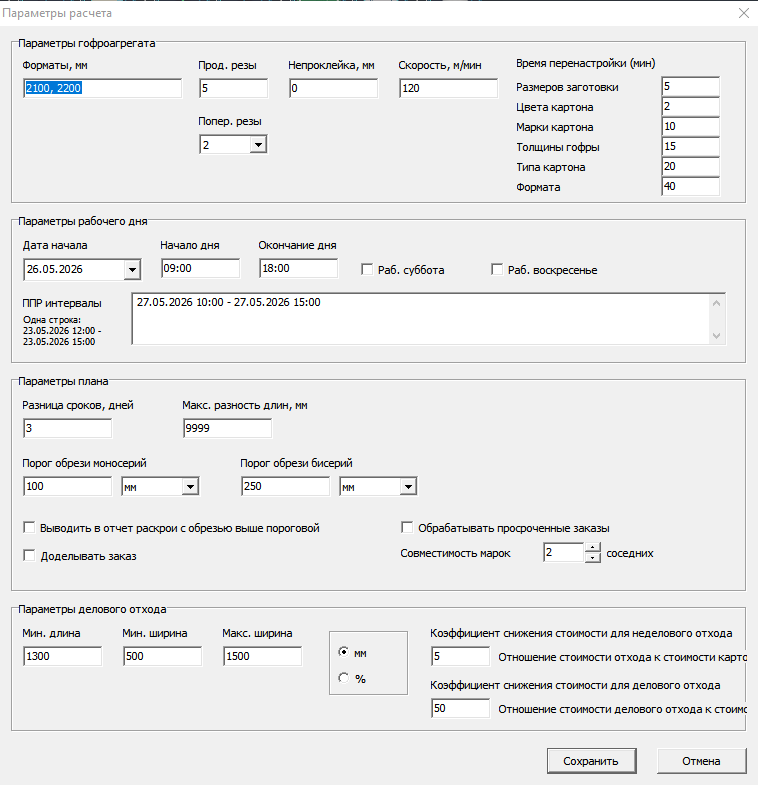
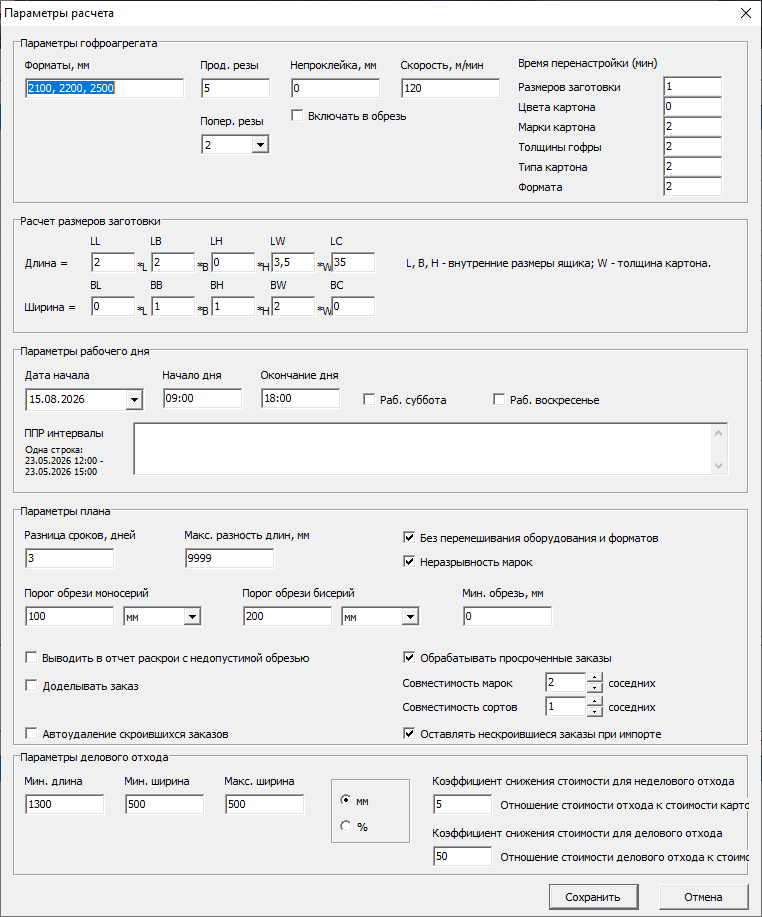
Update OptCutting site for 1.39

Changed region(s): [[0.0, 0.0, 1.0, 1.0], [0.2427, 0.0611, 0.6372, 0.1834], [0.5158, 0.2752, 0.9406, 0.3057]]

diff --git a/index.html b/index.html
@@ -4,8 +4,8 @@
   <meta charset="utf-8">
   <meta name="viewport" content="width=device-width, initial-scale=1">
   <title>Раскройщик OptCutting — программа оптимизации раскроя гофрокартона</title>
-  <meta name="description" content="Раскройщик OptCutting: Windows-программа для оптимизации раскроя полотна гофрокартона, расчета карт раскроя, снижения отходов, учета сроков, ППР, совместимости марок и формирования Excel/Word-отчетов.">
-  <meta name="keywords" content="раскройщик, OptCutting, программа раскроя гофрокартона, раскрой гофрокартона, оптимизация раскроя, раскрой полотна, карты раскроя, сетевой график, гофроагрегат, фактический план, сравнение планов, деловой отход, MS SQL Server, Excel отчеты, Word отчет">
+  <meta name="description" content="Раскройщик OptCutting: Windows-программа для оптимизации раскроя полотна гофрокартона, расчета карт раскроя, контроля сырья и сортов, снижения отходов, учета сроков, ППР, совместимости марок и формирования Excel/Word-отчетов.">
+  <meta name="keywords" content="раскройщик, OptCutting, программа раскроя гофрокартона, раскрой гофрокартона, оптимизация раскроя, раскрой полотна, карты раскроя, сетевой график, гофроагрегат, фактический план, сравнение планов, деловой отход, сырье, сорта картона, склад сырья, MS SQL Server, Excel отчеты, Word отчет">
   <meta name="author" content="Viktor Guberniev">
   <meta name="robots" content="index, follow, max-image-preview:large, max-snippet:-1, max-video-preview:-1">
   <meta name="application-name" content="OptCutting">
@@ -765,7 +765,7 @@ html[data-theme="day"] .smart-related-card,html.day-theme .smart-related-card{ba
           </div>
           <div class="card">
             <h3 data-i18n="feature3Title">Совместимость марок</h3>
-            <p data-i18n="feature3Text">Повышение марки оценивается через метод эквивалентной обрези.</p>
+            <p data-i18n="feature3Text">Повышение марки оценивается через метод эквивалентной обрези; совместимость сортов задается отдельно по соседним сортам.</p>
           </div>
           <div class="card">
             <h3 data-i18n="feature4Title">SQL и Excel</h3>
@@ -779,6 +779,18 @@ html[data-theme="day"] .smart-related-card,html.day-theme .smart-related-card{ba
             <h3 data-i18n="feature6Title">Без перемешивания форматов</h3>
             <p data-i18n="feature6Text">Специальный режим сначала планирует все раскрои на одном оборудовании и одном формате, затем переходит к следующему оборудованию и формату.</p>
           </div>
+          <div class="card">
+            <h3 data-i18n="feature7Title">Сырье и сорта</h3>
+            <p data-i18n="feature7Text">Справочники сырья и сортов позволяют привязать к сорту состав картона, расход компонентов на 1 м2 и складские остатки.</p>
+          </div>
+          <div class="card">
+            <h3 data-i18n="feature8Title">Контроль заказов</h3>
+            <p data-i18n="feature8Text">Программа предупреждает о нехватке сырья, отсутствии сорта и несоответствии цветов заказа внешним слоям сырья.</p>
+          </div>
+          <div class="card">
+            <h3 data-i18n="feature9Title">Гибкий импорт</h3>
+            <p data-i18n="feature9Text">Импорт понимает сорта вместо марок, необязательные поля, цвета обеих сторон, оборудование, биговки и может сохранять нескроившиеся остатки.</p>
+          </div>
         </div>
         <div class="screen feature-screen">
           <img src="assets/screen-main.png" alt="Главное окно программы OptCutting для раскроя полотна гофрокартона" loading="lazy">
@@ -790,15 +802,15 @@ html[data-theme="day"] .smart-related-card,html.day-theme .smart-related-card{ba
     <section id="planning-params">
       <div class="wrap section-head">
         <h2 data-i18n="paramsTitle">Параметры, которые влияют на план</h2>
-        <p data-i18n="paramsText">Оборудование и доступные для него форматы, продольные и поперечные резы, скорость, перенастройки, рабочий день, интервалы ППР, пороги обрези и правила обработки просроченных заказов.</p>
+        <p data-i18n="paramsText">Оборудование и доступные для него форматы, продольные и поперечные резы, скорость, перенастройки, рабочий день, интервалы ППР, пороги обрези, неразрывность марок, совместимость марок и сортов, а также правила обработки просроченных и нескроившихся заказов.</p>
       </div>
       <div class="wrap showcase">
         <div>
           <div class="steps">
-            <div class="card step"><h3 data-i18n="step1Title">Заказы</h3><p data-i18n="step1Text">Импортируйте или создайте заказы; при необходимости укажите рилевки и перерабатывающее оборудование.</p></div>
+            <div class="card step"><h3 data-i18n="step1Title">Заказы</h3><p data-i18n="step1Text">Импортируйте или создайте заказы; при необходимости укажите сорт, цвета обеих сторон, рилевки и перерабатывающее оборудование.</p></div>
             <div class="card step"><h3 data-i18n="step2Title">Оборудование</h3><p data-i18n="step2Text">Ведите общий справочник оборудования и его форматов, выбирайте машины для расчета. Режим без перемешивания форматов сначала выполняет все раскрои на одной машине и одном формате, затем переходит к следующим.</p></div>
             <div class="card step"><h3 data-i18n="step3Title">Календарь</h3><p data-i18n="step3Text">Укажите дату старта, рабочее время, выходные и интервалы ППР.</p></div>
-            <div class="card step"><h3 data-i18n="step4Title">Расчет</h3><p data-i18n="step4Text">Получите план раскроя, карту, сводку, Excel-отчеты и сравнение с фактом.</p></div>
+            <div class="card step"><h3 data-i18n="step4Title">Расчет</h3><p data-i18n="step4Text">Получите план раскроя, карту, сводку, примечания по заказам, Excel-отчеты, отчет по сырью и сравнение с фактом.</p></div>
           </div>
         </div>
         <div class="screen">
@@ -835,7 +847,7 @@ html[data-theme="day"] .smart-related-card,html.day-theme .smart-related-card{ba
     <section id="reports">
       <div class="wrap section-head">
         <h2 data-i18n="reportsTitle">Отчеты для производства и руководителя</h2>
-        <p data-i18n="reportsText">Файлы Excel открываются автоматически и сохраняют цветовую подсветку: опоздания, повышение марки, частично скроенные и нескроенные заказы. Для фактического плана доступен отдельный Word-отчет сравнения.</p>
+        <p data-i18n="reportsText">Файлы Excel открываются через программу, ассоциированную с Excel-форматом, и сохраняют цветовую подсветку: опоздания, повышение марки, частично скроенные и нескроенные заказы. Для фактического плана доступен отдельный Word-отчет сравнения.</p>
       </div>
       <div class="wrap report-grid">
         <div class="screen">
@@ -848,7 +860,7 @@ html[data-theme="day"] .smart-related-card,html.day-theme .smart-related-card{ba
         </div>
         <div class="screen">
           <img src="assets/report-materials.png" alt="Ведомость потребности в картоне из программы OptCutting" loading="lazy">
-          <div class="caption" data-i18n="report3">Потребность: марки картона, отход, деловой отход, стоимость.</div>
+          <div class="caption" data-i18n="report3">Потребность: марки картона, отход, деловой отход, стоимость, а также отдельный лист по сырью с потребностью в м2 и тоннах, запасом и остатком.</div>
         </div>
       </div>
     </section>
@@ -882,10 +894,23 @@ html[data-theme="day"] .smart-related-card,html.day-theme .smart-related-card{ba
     <section id="news">
       <div class="wrap section-head">
         <h2 data-i18n="newsTitle">Новости OptCutting</h2>
-        <p data-i18n="newsIntro">Последние изменения делают планирование на нескольких машинах точнее, а производственные отчеты — информативнее.</p>
+        <p data-i18n="newsIntro">Последние изменения добавляют учет сырья и сортов, более точную диагностику заказов и информативные производственные отчеты.</p>
       </div>
       <div class="wrap news-grid">
         <article class="card release latest">
+          <div class="release-kicker" data-i18n="news139Kicker">Обновление 1.39 готово</div>
+          <h3 data-i18n="news139Title">Новое в версии 1.39</h3>
+          <p data-i18n="news139Text">Обновление добавляет учет сырья и сортов картона, расширенный импорт и новую диагностику заказов.</p>
+          <ul class="release-list">
+            <li class="priority" data-i18n="news139Item1">Добавлены справочники сырья и сортов: состав сорта, расход сырья на 1 м2, остатки на складе и контроль достаточности запасов.</li>
+            <li data-i18n="news139Item2">В заказах можно выбирать сорт; при импорте сорт может быть указан вместо марки, а программа выделяет марку автоматически.</li>
+            <li data-i18n="news139Item3">Добавлены предупреждения и цветовая разметка: не хватает сырья, сорт не найден, цвет заказа не соответствует внешним слоям сырья.</li>
+            <li data-i18n="news139Item4">Список заказов получил колонку «Примечания» и отдельную легенду статусов, включая нескроившиеся и частично скроившиеся заказы.</li>
+            <li data-i18n="news139Item5">Добавлены неразрывность марок, совместимость сортов, запоминание папки импорта и режим сохранения нескроившихся заказов при импорте.</li>
+            <li data-i18n="news139Item6">Отчет по сырью показывает потребность в м2 и тоннах, текущий запас и остаток после изготовления заказов.</li>
+          </ul>
+        </article>
+        <article class="card release">
           <div class="release-kicker" data-i18n="news132Kicker">Обновление 1.32 готово</div>
           <h3 data-i18n="news132Title">Новое в версии 1.32</h3>
           <p data-i18n="news132Text">Обновление расширяет работу с оборудованием, заказами и совместными раскроями.</p>
@@ -961,7 +986,7 @@ html[data-theme="day"] .smart-related-card,html.day-theme .smart-related-card{ba
     <section id="pricing">
       <div class="wrap section-head">
         <h2 data-i18n="pricingTitle">Стартовые цены</h2>
-        <p data-i18n="pricingText">Цена снижена для первых внедрений. Версия 1.32 уже включает справочник оборудования, последовательное планирование по машинам и форматам и расширенные данные заказов.</p>
+        <p data-i18n="pricingText">Цена снижена для первых внедрений. Версия 1.39 уже включает справочник оборудования, последовательное планирование по машинам и форматам, сырье, сорта картона и расширенную диагностику заказов.</p>
       </div>
       <div class="wrap pricing">
         <div class="card price">
@@ -1021,7 +1046,7 @@ html[data-theme="day"] .smart-related-card,html.day-theme .smart-related-card{ba
         </div>
         <div class="card">
           <h3 data-i18n="faq3Title">Какие отчеты формируются?</h3>
-          <p data-i18n="faq3Text">Excel-отчет по раскроям, сетевой график в виде диаграммы Ганта, ведомость потребности в картоне и Word-отчет сравнения фактического и оптимизированного плана.</p>
+          <p data-i18n="faq3Text">Excel-отчет по раскроям, сетевой график в виде диаграммы Ганта, ведомость потребности в картоне, отчет по потребному сырью и Word-отчет сравнения фактического и оптимизированного плана.</p>
         </div>
         <div class="card">
           <h3 data-i18n="faq4Title">Можно сравнить с текущим планом?</h3>
@@ -1152,7 +1177,7 @@ html[data-theme="day"] .smart-related-card,html.day-theme .smart-related-card{ba
           navPricing: "Цены",
           eyebrow: "Windows-программа для гофропроизводства",
           heroTitle: "Раскройщик OptCutting",
-          heroText: "Оптимизация раскроя полотна гофрокартона: заказы, сроки, ППР, подкрой, совместимость марок, карты раскроя, сравнение фактического плана и Excel/Word-отчеты в одном рабочем инструменте.",
+          heroText: "Оптимизация раскроя полотна гофрокартона: заказы, сроки, ППР, подкрой, совместимость марок и сортов, контроль сырья, карты раскроя, сравнение фактического плана и Excel/Word-отчеты в одном рабочем инструменте.",
           downloadDemo: "Скачать демоверсию",
           openPresentation: "Смотреть презентацию",
           chipPrice: "Бессрочно: 99 000 ₽",
@@ -1165,13 +1190,22 @@ html[data-theme="day"] .smart-related-card,html.day-theme .smart-related-card{ba
           value2Title: "Контроль сроков",
           value2Text: "Расчет от даты начала, рабочий календарь, выходные, ППР и опоздания в примечаниях.",
           value3Title: "Экономика картона",
-          value3Text: "Цены по маркам, повышение марки, деловой отход и ведомость потребности.",
+          value3Text: "Цены по маркам, повышение марки, деловой отход, ведомость потребности и контроль сырья.",
           multiTitle: "Мультиязычный интерфейс",
           multiText: "Раскройщик уже поставляется со словарями интерфейса для десяти языков. Переключение языка помогает внедрять программу в смешанных командах и на площадках с разными рабочими языками.",
           multiNote: "Если нужен другой язык, можно самостоятельно создать словарь перевода для любого языка и подключить его к программе.",
           mainCaption: "Главное окно: заказы, карта раскроя, сводка и серии.",
           newsTitle: "Новости OptCutting",
-          newsIntro: "Последние изменения делают планирование на нескольких машинах точнее, а производственные отчеты — информативнее.",
+          newsIntro: "Последние изменения добавляют учет сырья и сортов, более точную диагностику заказов и информативные производственные отчеты.",
+          news139Kicker: "Обновление 1.39 готово",
+          news139Title: "Новое в версии 1.39",
+          news139Text: "Обновление добавляет учет сырья и сортов картона, расширенный импорт и новую диагностику заказов.",
+          news139Item1: "Добавлены справочники сырья и сортов: состав сорта, расход сырья на 1 м2, остатки на складе и контроль достаточности запасов.",
+          news139Item2: "В заказах можно выбирать сорт; при импорте сорт может быть указан вместо марки, а программа выделяет марку автоматически.",
+          news139Item3: "Добавлены предупреждения и цветовая разметка: не хватает сырья, сорт не найден, цвет заказа не соответствует внешним слоям сырья.",
+          news139Item4: "Список заказов получил колонку «Примечания» и отдельную легенду статусов, включая нескроившиеся и частично скроившиеся заказы.",
+          news139Item5: "Добавлены неразрывность марок, совместимость сортов, запоминание папки импорта и режим сохранения нескроившихся заказов при импорте.",
+          news139Item6: "Отчет по сырью показывает потребность в м2 и тоннах, текущий запас и остаток после изготовления заказов.",
           news132Kicker: "Обновление 1.32 готово",
           news132Title: "Новое в версии 1.32",
           news132Text: "Обновление расширяет работу с оборудованием, заказами и совместными раскроями.",
@@ -1205,23 +1239,29 @@ html[data-theme="day"] .smart-related-card,html.day-theme .smart-related-card{ba
           feature2Title: "Гофроящики",
           feature2Text: "Расчет заготовки по внутренним размерам ящика, настраиваемым коэффициентам и биговочные линии на карте.",
           feature3Title: "Совместимость марок",
-          feature3Text: "Повышение марки оценивается через метод эквивалентной обрези.",
+          feature3Text: "Повышение марки оценивается через метод эквивалентной обрези; совместимость сортов задается отдельно по соседним сортам.",
           feature4Title: "SQL, Lite и Excel",
           feature4Text: "Рабочая версия хранит данные в SQL Server; Lite-версия работает без него. При импорте из Excel или SQL загружаются также рилевки и перерабатывающее оборудование.",
           feature5Title: "Список оборудования",
           feature5Text: "Для каждой машины сохраняются наименование и несколько доступных форматов; в расчет включается нужное оборудование.",
           feature6Title: "Без перемешивания форматов",
           feature6Text: "Специальный режим сначала планирует все раскрои на одном оборудовании и одном формате, затем переходит к следующему оборудованию и формату.",
+          feature7Title: "Сырье и сорта",
+          feature7Text: "Справочники сырья и сортов позволяют привязать к сорту состав картона, расход компонентов на 1 м2 и складские остатки.",
+          feature8Title: "Контроль заказов",
+          feature8Text: "Программа предупреждает о нехватке сырья, отсутствии сорта и несоответствии цветов заказа внешним слоям сырья.",
+          feature9Title: "Гибкий импорт",
+          feature9Text: "Импорт понимает сорта вместо марок, необязательные поля, цвета обеих сторон, оборудование, биговки и может сохранять нескроившиеся остатки.",
           paramsTitle: "Параметры, которые влияют на план",
-          paramsText: "Оборудование и доступные для него форматы, продольные и поперечные резы, скорость, перенастройки, рабочий день, интервалы ППР, минимальная и максимальная обрезь, учет непроклейки и правила обработки просроченных заказов.",
+          paramsText: "Оборудование и доступные для него форматы, продольные и поперечные резы, скорость, перенастройки, рабочий день, интервалы ППР, пороги обрези, неразрывность марок, совместимость марок и сортов, а также правила обработки просроченных и нескроившихся заказов.",
           step1Title: "Заказы",
-          step1Text: "Импортируйте или создайте заказы; при необходимости укажите рилевки и перерабатывающее оборудование.",
+          step1Text: "Импортируйте или создайте заказы; при необходимости укажите сорт, цвета обеих сторон, рилевки и перерабатывающее оборудование.",
           step2Title: "Оборудование",
           step2Text: "Ведите общий справочник оборудования и его форматов, выбирайте машины для расчета. Режим без перемешивания форматов сначала выполняет все раскрои на одной машине и одном формате, затем переходит к следующим.",
           step3Title: "Календарь",
           step3Text: "Укажите дату старта, рабочее время, выходные и интервалы ППР.",
           step4Title: "Расчет",
-          step4Text: "Получите план раскроя, карту, сводку, Excel-отчеты и сравнение с фактом.",
+          step4Text: "Получите план раскроя, карту, сводку, примечания по заказам, Excel-отчеты, отчет по сырью и сравнение с фактом.",
           paramsCaption: "Окно параметров расчета.",
           actualTitle: "Проверка на фактическом плане",
           actualText: "Рабочая версия может загрузить реальный план производства из Excel, посчитать его показатели и сразу сравнить с оптимизированным вариантом OptCutting.",
@@ -1232,10 +1272,10 @@ html[data-theme="day"] .smart-related-card,html.day-theme .smart-related-card{ba
           actual3Title: "Сравнение в отчетах",
           actual3Text: "После оптимизации программа добавляет сравнение фактического и расчетного плана в Excel и формирует отдельный Word-отчет.",
           reportsTitle: "Отчеты для производства и руководителя",
-          reportsText: "Файлы Excel открываются автоматически и сохраняют цветовую подсветку: опоздания, повышение марки, частично скроенные и нескроенные заказы. Для фактического плана доступен отдельный Word-отчет сравнения.",
+          reportsText: "Файлы Excel открываются через программу, ассоциированную с Excel-форматом, и сохраняют цветовую подсветку: опоздания, повышение марки, частично скроенные и нескроенные заказы. Для фактического плана доступен отдельный Word-отчет сравнения.",
           report1: "Раскрои: оборудование, серии, заказы, размеры, полотна, рилевки и перерабатывающее оборудование; примечание выводится последним.",
           report2: "Сетевой график: диаграмма Ганта работы гофроагрегата.",
-          report3: "Потребность: марки картона, отход, деловой отход, стоимость.",
+          report3: "Потребность: марки картона, отход, деловой отход, стоимость, а также отдельный лист по сырью с потребностью в м2 и тоннах, запасом и остатком.",
           integrationsTitle: "Интеграции с PRO-программами",
           integrationsText: "Раскройщик сам не запускается с JSON и не имеет PRO-редакции. При этом из свойств выбранного заказа он может передать данные в установленные PRO-программы PackTuning; соответствующая кнопка появляется, когда программа-получатель установлена.",
           integrationTransportTitle: "Транспортировка",
@@ -1245,7 +1285,7 @@ html[data-theme="day"] .smart-related-card,html.day-theme .smart-related-card{ba
           integrationTechCardTitle: "Техкарта",
           integrationTechCardText: "Передаёт данные заказа в ГофроТехкарту PRO для подготовки технологической карты.",
           pricingTitle: "Стартовые цены",
-          pricingText: "Цена снижена для первых внедрений. Версия 1.32 уже включает справочник оборудования, последовательное планирование по машинам и форматам и расширенные данные заказов.",
+          pricingText: "Цена снижена для первых внедрений. Версия 1.39 уже включает справочник оборудования, последовательное планирование по машинам и форматам, сырье, сорта картона и расширенную диагностику заказов.",
           priceBuyTitle: "Бессрочная лицензия",
           priceBuy: "99 000 ₽",
           priceBuyText: "Для предприятия, которое хочет сразу закрепить право использования.",
@@ -1263,7 +1303,7 @@ html[data-theme="day"] .smart-related-card,html.day-theme .smart-related-card{ba
           faq2Title: "Нужен ли SQL Server для демо?",
           faq2Text: "Демоверсия не требует SQL Server: она автоматически создает пример заказов. Рабочая версия подключается к базе и реальным данным предприятия.",
           faq3Title: "Какие отчеты формируются?",
-          faq3Text: "Excel-отчет по раскроям, сетевой график в виде диаграммы Ганта, ведомость потребности в картоне и Word-отчет сравнения фактического и оптимизированного плана.",
+          faq3Text: "Excel-отчет по раскроям, сетевой график в виде диаграммы Ганта, ведомость потребности в картоне, отчет по потребному сырью и Word-отчет сравнения фактического и оптимизированного плана.",
           faq4Title: "Можно сравнить с текущим планом?",
           faq4Text: "Да. Рабочая версия загружает фактический план из Excel, оценивает его показатели и после расчета показывает, что изменилось в оптимизированном варианте.",
           otherTitle: "Посмотрите другие мои программы",
@@ -1303,7 +1343,7 @@ html[data-theme="day"] .smart-related-card,html.day-theme .smart-related-card{ba
           navPricing: "Pricing",
           eyebrow: "Windows software for corrugated production",
           heroTitle: "OptCutting",
-          heroText: "Corrugated web cutting optimization: orders, due dates, planned maintenance, nested cuts, compatible board grades, cutting maps, actual plan comparison and Excel/Word reports in one production tool.",
+          heroText: "Corrugated web cutting optimization: orders, due dates, planned maintenance, nested cuts, compatible board grades and sorts, raw-material control, cutting maps, actual plan comparison and Excel/Word reports in one production tool.",
           downloadDemo: "Download demo",
           openPresentation: "View presentation",
           chipPrice: "Perpetual: €990",
@@ -1316,13 +1356,22 @@ html[data-theme="day"] .smart-related-card,html.day-theme .smart-related-card{ba
           value2Title: "Due-date control",
           value2Text: "Start date, working calendar, weekends, maintenance intervals and lateness notes.",
           value3Title: "Board economics",
-          value3Text: "Board prices, grade upgrades, reusable waste and material requirement reports.",
+          value3Text: "Board prices, grade upgrades, reusable waste, material demand reports and raw-material control.",
           multiTitle: "Multilingual interface",
           multiText: "OptCutting already ships with interface dictionaries for ten languages. Language switching helps deploy the program in mixed teams and production sites with different working languages.",
           multiNote: "If another language is needed, you can create your own translation dictionary for any language and connect it to the program.",
           mainCaption: "Main window: orders, cutting map, summary and cutting series.",
           newsTitle: "OptCutting news",
-          newsIntro: "The latest changes make multi-machine planning more accurate and production reports more informative.",
+          newsIntro: "The latest changes add raw-material and board-sort control, more precise order diagnostics and more informative production reports.",
+          news139Kicker: "Update 1.39 is ready",
+          news139Title: "What is new in version 1.39",
+          news139Text: "This update adds raw-material and board-sort control, expanded import and new order diagnostics.",
+          news139Item1: "Raw Materials and Board Sorts catalogs now store sort composition, component consumption per 1 m2, stock balances and stock sufficiency checks.",
+          news139Item2: "Orders can use board sorts; imports may specify a sort instead of a grade, and the program extracts the grade automatically.",
+          news139Item3: "Warnings and color highlighting were added for raw-material shortages, missing sorts and order colors that do not match the outer material layers.",
+          news139Item4: "The order list now has a Notes column and a separate status legend, including uncut and partially cut orders.",
+          news139Item5: "Added grade continuity, sort compatibility, last import folder memory and a mode that keeps uncut order remainders during import.",
+          news139Item6: "The raw-material report shows demand in m2 and tons, current stock and the remaining stock after production.",
           news132Kicker: "Update 1.32 is ready",
           news132Title: "What is new in version 1.32",
           news132Text: "This update expands equipment, order and combined-cutting workflows.",
@@ -1356,23 +1405,29 @@ html[data-theme="day"] .smart-related-card,html.day-theme .smart-related-card{ba
           feature2Title: "Corrugated boxes",
           feature2Text: "Blank size calculation from inner box dimensions, adjustable coefficients and crease lines on the map.",
           feature3Title: "Grade compatibility",
-          feature3Text: "Grade upgrades are evaluated using equivalent trim waste.",
+          feature3Text: "Grade upgrades are evaluated using equivalent trim waste; sort compatibility is configured separately by neighboring sort numbers.",
           feature4Title: "SQL, Lite and Excel",
           feature4Text: "The full version stores data in SQL Server; the Lite edition works without it. Excel or SQL imports also read creases and processing equipment.",
           feature5Title: "Equipment list",
           feature5Text: "Store each machine name and several available web widths, then select the required equipment for calculation.",
           feature6Title: "No format intermixing",
           feature6Text: "A dedicated mode schedules every cutting plan for one machine and one format first, then moves to the next machine and format.",
+          feature7Title: "Raw materials and sorts",
+          feature7Text: "Raw-material and board-sort catalogs link each sort to its board composition, component consumption per 1 m2 and warehouse balances.",
+          feature8Title: "Order diagnostics",
+          feature8Text: "The program warns about raw-material shortages, missing sorts and order colors that do not match the outer raw-material layers.",
+          feature9Title: "Flexible import",
+          feature9Text: "Import supports sorts instead of grades, optional fields, two-sided colors, equipment, creases and keeping uncut remainders.",
           paramsTitle: "Planning parameters",
-          paramsText: "Equipment and its available web widths, longitudinal and cross cuts, speed, setup time, working day, maintenance intervals, minimum and maximum trim waste, unglued-area handling and overdue order rules.",
+          paramsText: "Equipment and its available web widths, longitudinal and cross cuts, speed, setup time, working day, maintenance intervals, trim-waste thresholds, grade continuity, grade and sort compatibility, and rules for overdue and uncut orders.",
           step1Title: "Orders",
-          step1Text: "Import or create orders and, when needed, enter creases and processing equipment.",
+          step1Text: "Import or create orders and, when needed, enter board sort, both-side colors, creases and processing equipment.",
           step2Title: "Equipment",
           step2Text: "Maintain a shared equipment-and-format catalog and select machines for calculation. No-format-intermixing mode completes all plans for one machine and format before moving to the next.",
           step3Title: "Calendar",
           step3Text: "Set start date, working hours, weekends and maintenance windows.",
           step4Title: "Calculate",
-          step4Text: "Get the cutting plan, map, summary, Excel reports and comparison with the actual plan.",
+          step4Text: "Get the cutting plan, map, summary, order notes, Excel reports, raw-material report and comparison with the actual plan.",
           paramsCaption: "Calculation parameters window.",
           actualTitle: "Actual plan comparison",
           actualText: "The full version can load a real production plan from Excel, calculate its indicators and immediately compare it with the optimized OptCutting plan.",
@@ -1383,10 +1438,10 @@ html[data-theme="day"] .smart-related-card,html.day-theme .smart-related-card{ba
           actual3Title: "Comparison reports",
           actual3Text: "After optimization, the program adds actual-vs-optimized comparison to Excel and generates a separate Word report.",
           reportsTitle: "Reports for production and management",
-          reportsText: "Excel files open automatically and keep color highlighting: lateness, grade upgrades, partially cut and uncut orders. For actual plans, a separate Word comparison report is available.",
+          reportsText: "Excel files open through the application associated with Excel files and keep color highlighting: lateness, grade upgrades, partially cut and uncut orders. For actual plans, a separate Word comparison report is available.",
           report1: "Cutting report: equipment, series, orders, dimensions, webs, creases and processing equipment; Notes is the final column.",
           report2: "Network schedule: corrugator Gantt chart.",
-          report3: "Material demand: board grades, waste, reusable waste and cost.",
+          report3: "Material demand: board grades, waste, reusable waste, cost and a separate raw-material sheet with m2 and ton demand, stock and remaining balance.",
           integrationsTitle: "Integrations with PRO applications",
           integrationsText: "OptCutting itself does not launch from JSON and has no PRO edition. However, from the selected order properties it can send data to installed PackTuning PRO applications; each button appears when the receiving application is installed.",
           integrationTransportTitle: "Transport",
@@ -1396,7 +1451,7 @@ html[data-theme="day"] .smart-related-card,html.day-theme .smart-related-card{ba
           integrationTechCardTitle: "Tech Card",
           integrationTechCardText: "Sends order data to GofroTechCard PRO to prepare a technical card.",
           pricingTitle: "Introductory pricing",
-          pricingText: "The price is reduced for first deployments. Version 1.32 includes the equipment catalog, sequential machine-and-format planning and expanded order data.",
+          pricingText: "The price is reduced for first deployments. Version 1.39 includes the equipment catalog, sequential machine-and-format planning, raw materials, board sorts and expanded order diagnostics.",
           priceBuyTitle: "Perpetual license",
           priceBuy: "€990",
           priceBuyText: "For a company that wants to secure long-term usage rights.",
@@ -1414,7 +1469,7 @@ html[data-theme="day"] .smart-related-card,html.day-theme .smart-related-card{ba
           faq2Title: "Is SQL Server required for the demo?",
           faq2Text: "The demo does not require SQL Server: it creates sample orders automatically. The full version connects to the database and real plant data.",
           faq3Title: "Which reports are available?",
-          faq3Text: "Excel cutting reports, a Gantt schedule, a material demand report and a Word report comparing the actual and optimized plans.",
+          faq3Text: "Excel cutting reports, a Gantt schedule, a board demand report, a raw-material demand report and a Word report comparing the actual and optimized plans.",
           faq4Title: "Can it compare with the current plan?",
           faq4Text: "Yes. The full version loads the actual plan from Excel, evaluates its metrics and then shows what changed in the optimized version.",
           otherTitle: "Explore my other software",
